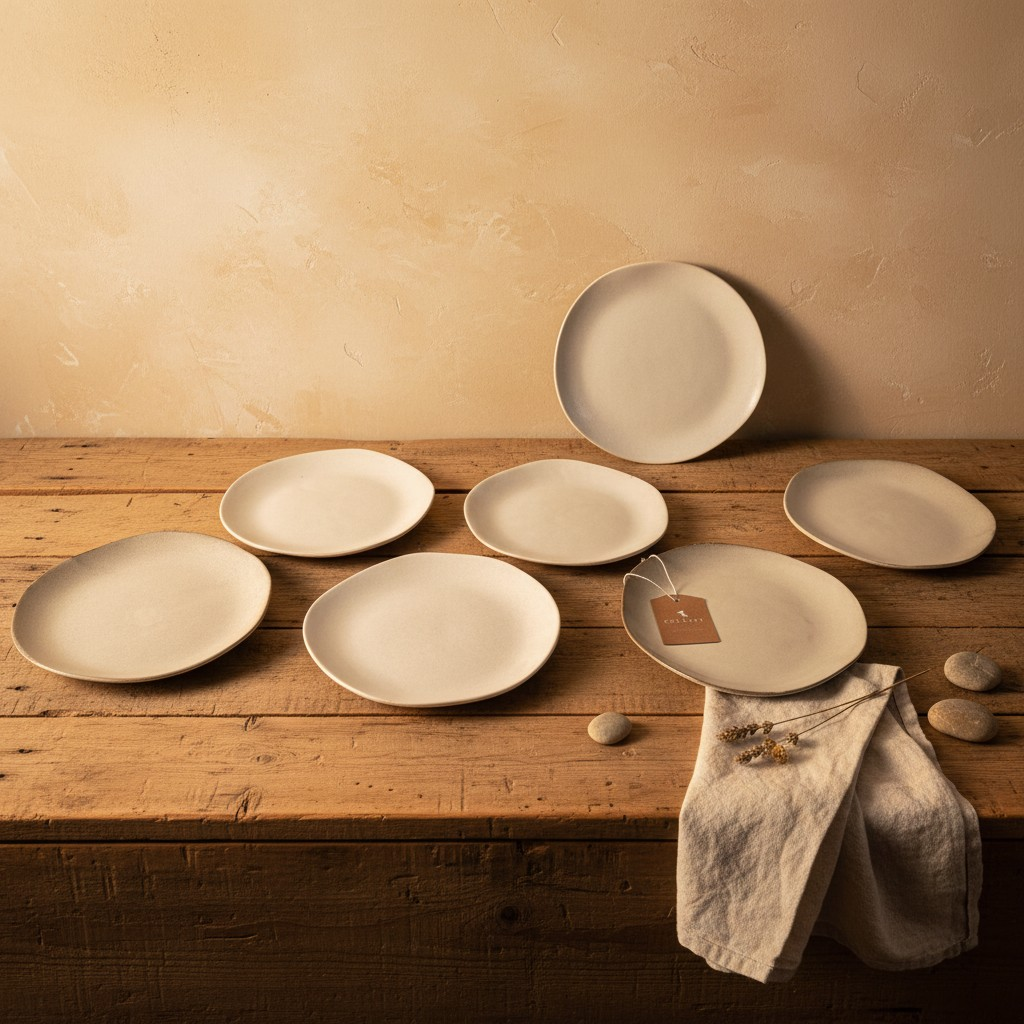
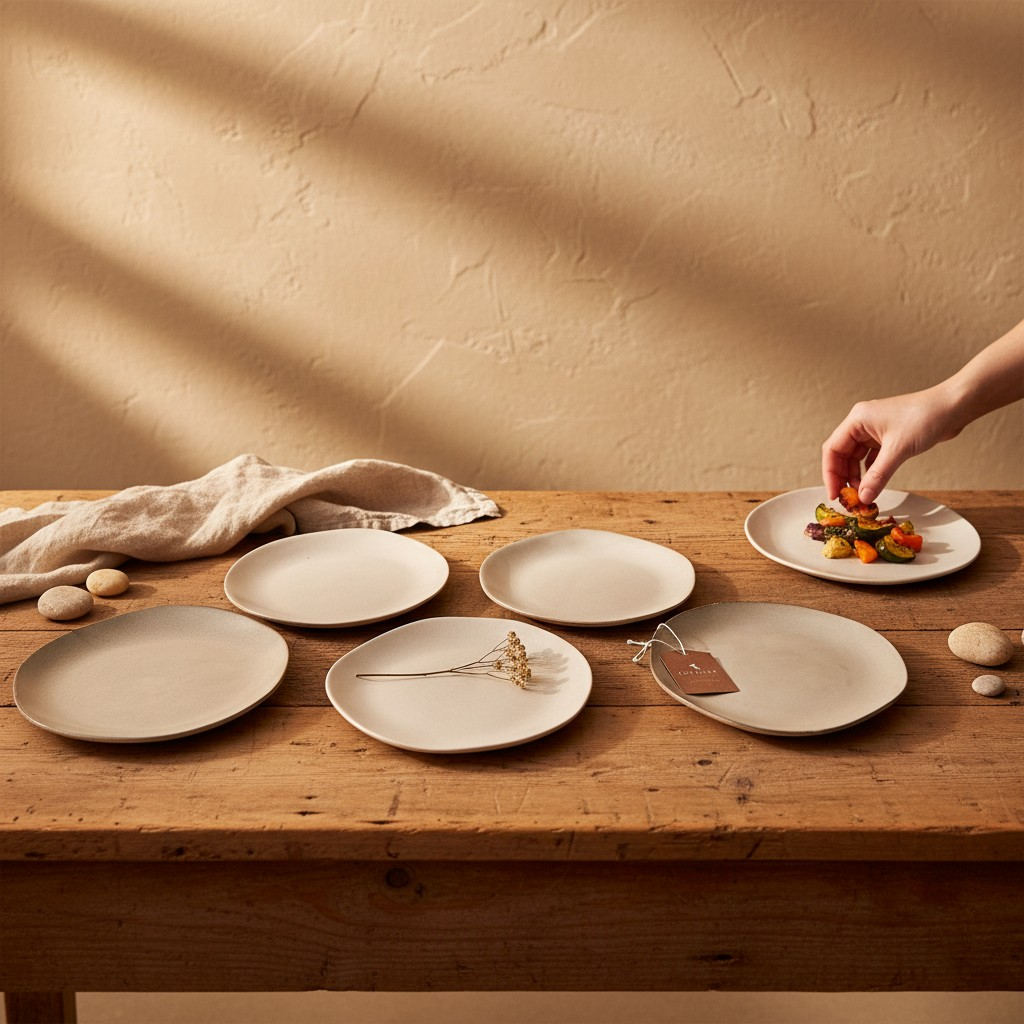
plato-postre-sorrento: x4/x6, elimina foto 1, nueva foto al final, heroes: x6=foto6 x4=foto4, precios correctos

diff --git a/index.html b/index.html
@@ -2075,7 +2075,8 @@ src="https://www.facebook.com/tr?id=1479825037203290&ev=PageView&noscript=1"/></
   <div class="product" id="mug-portofino-410"><img loading="lazy" class="main-photo" src="FOTOS/mishka/mug-portofino-410/1.jpg" alt="Mug Portofino 410ml"><div class="thumbnails"><img loading="lazy" src="FOTOS/mishka/mug-portofino-410/1.jpg" class="active" onmouseover="changeMain(this)"><img loading="lazy" src="FOTOS/mishka/mug-portofino-410/2.jpg" onmouseover="changeMain(this)"><img loading="lazy" src="FOTOS/mishka/mug-portofino-410/3.jpg" onmouseover="changeMain(this)"><img loading="lazy" src="FOTOS/mishka/mug-portofino-410/4.jpg" onmouseover="changeMain(this)"><img loading="lazy" src="FOTOS/mishka/mug-portofino-410/5.jpg" onmouseover="changeMain(this)"><img loading="lazy" src="FOTOS/mishka/mug-portofino-410/6.jpg" onmouseover="changeMain(this)"><img loading="lazy" src="FOTOS/mishka/mug-portofino-410/7.jpg" onmouseover="changeMain(this)"><img loading="lazy" src="FOTOS/mishka/mug-portofino-410/8.jpg" onmouseover="changeMain(this)"><img loading="lazy" src="FOTOS/mishka/mug-portofino-410/9.jpg" onmouseover="changeMain(this)"><img loading="lazy" src="FOTOS/mishka/mug-portofino-410/10.jpg" onmouseover="changeMain(this)"><img loading="lazy" src="FOTOS/mishka/mug-portofino-410/11.jpg" onmouseover="changeMain(this)"></div><div class="product-info"><div class="product-name">Set x6 Mug Portofino 410 ml</div><div class="product-desc">Cerámica · Color verde agua castaño · Línea Portofino · Capacidad generosa para café o infusiones · 410 ml · Set de 6</div><div class="product-price">$65.999</div><span class="product-tag">Mesa & Cocina</span></div></div>
   <div class="product" id="plato-playo-sorrento"><img loading="lazy" class="main-photo" src="FOTOS/mishka/plato-playo-sorrento/3.jpg" alt="Set x6 Plato Playo Sorrento 27.5cm"><div class="thumbnails"><img loading="lazy" src="FOTOS/mishka/plato-playo-sorrento/3.jpg" class="active" onmouseover="changeMain(this)"><img loading="lazy" src="FOTOS/mishka/plato-playo-sorrento/1.jpg" onmouseover="changeMain(this)"><img loading="lazy" src="FOTOS/mishka/plato-playo-sorrento/2.jpg" onmouseover="changeMain(this)"><img loading="lazy" src="FOTOS/mishka/plato-playo-sorrento/4.jpg" onmouseover="changeMain(this)"><img loading="lazy" src="FOTOS/mishka/plato-playo-sorrento/5.jpg" onmouseover="changeMain(this)"><img loading="lazy" src="FOTOS/mishka/plato-playo-sorrento/6.jpg" onmouseover="changeMain(this)"></div><div class="product-info"><div class="product-name">Set x6 Plato Playo Sorrento 27,5 cm</div><div class="product-desc">Porcelana · Línea Sorrento · Diseño artesanal con textura y carácter · 27,5 cm · Set de 6</div><div class="product-price">$25.499</div><span class="product-tag">Mesa & Cocina</span></div></div>
   <div class="product" id="plato-playo-sorrento-x4"><img loading="lazy" class="main-photo" src="FOTOS/mishka/plato-playo-sorrento/2.jpg" alt="Set x4 Plato Playo Sorrento 27.5cm"><div class="thumbnails"><img loading="lazy" src="FOTOS/mishka/plato-playo-sorrento/2.jpg" class="active" onmouseover="changeMain(this)"><img loading="lazy" src="FOTOS/mishka/plato-playo-sorrento/1.jpg" onmouseover="changeMain(this)"><img loading="lazy" src="FOTOS/mishka/plato-playo-sorrento/3.jpg" onmouseover="changeMain(this)"><img loading="lazy" src="FOTOS/mishka/plato-playo-sorrento/4.jpg" onmouseover="changeMain(this)"><img loading="lazy" src="FOTOS/mishka/plato-playo-sorrento/5.jpg" onmouseover="changeMain(this)"><img loading="lazy" src="FOTOS/mishka/plato-playo-sorrento/6.jpg" onmouseover="changeMain(this)"></div><div class="product-info"><div class="product-name">Set x4 Plato Playo Sorrento 27,5 cm</div><div class="product-desc">Porcelana · Línea Sorrento · Diseño artesanal con textura y carácter · 27,5 cm · Set de 4</div><div class="product-price">$17.499</div><span class="product-tag">Mesa & Cocina</span></div></div>
-  <div class="product" id="plato-postre-sorrento"><img loading="lazy" class="main-photo" src="FOTOS/mishka/plato-postre-sorrento/1.jpg" alt="Plato Postre Sorrento 22cm"><div class="thumbnails"><img loading="lazy" src="FOTOS/mishka/plato-postre-sorrento/1.jpg" class="active" onmouseover="changeMain(this)"><img loading="lazy" src="FOTOS/mishka/plato-postre-sorrento/2.jpg" onmouseover="changeMain(this)"><img loading="lazy" src="FOTOS/mishka/plato-postre-sorrento/3.jpg" onmouseover="changeMain(this)"><img loading="lazy" src="FOTOS/mishka/plato-postre-sorrento/4.jpg" onmouseover="changeMain(this)"><img loading="lazy" src="FOTOS/mishka/plato-postre-sorrento/5.jpg" onmouseover="changeMain(this)"><img loading="lazy" src="FOTOS/mishka/plato-postre-sorrento/6.jpg" onmouseover="changeMain(this)"><img loading="lazy" src="FOTOS/mishka/plato-postre-sorrento/7.jpg" onmouseover="changeMain(this)"><img loading="lazy" src="FOTOS/mishka/plato-postre-sorrento/8.jpg" onmouseover="changeMain(this)"></div><div class="product-info"><div class="product-name">Plato Postre Sorrento 22 cm</div><div class="product-desc">Porcelana · Línea Sorrento · Elegancia artesanal en cada detalle · 22 cm</div><div class="product-price">$17.999</div><span class="product-tag">Mesa & Cocina</span></div></div>
+  <div class="product" id="plato-postre-sorrento"><img loading="lazy" class="main-photo" src="FOTOS/mishka/plato-postre-sorrento/6.jpg" alt="Set x6 Plato Postre Sorrento 22cm"><div class="thumbnails"><img loading="lazy" src="FOTOS/mishka/plato-postre-sorrento/6.jpg" class="active" onmouseover="changeMain(this)"><img loading="lazy" src="FOTOS/mishka/plato-postre-sorrento/1.jpg" onmouseover="changeMain(this)"><img loading="lazy" src="FOTOS/mishka/plato-postre-sorrento/2.jpg" onmouseover="changeMain(this)"><img loading="lazy" src="FOTOS/mishka/plato-postre-sorrento/3.jpg" onmouseover="changeMain(this)"><img loading="lazy" src="FOTOS/mishka/plato-postre-sorrento/4.jpg" onmouseover="changeMain(this)"><img loading="lazy" src="FOTOS/mishka/plato-postre-sorrento/5.jpg" onmouseover="changeMain(this)"><img loading="lazy" src="FOTOS/mishka/plato-postre-sorrento/7.jpg" onmouseover="changeMain(this)"><img loading="lazy" src="FOTOS/mishka/plato-postre-sorrento/8.jpg" onmouseover="changeMain(this)"></div><div class="product-info"><div class="product-name">Set x6 Plato Postre Sorrento 22 cm</div><div class="product-desc">Porcelana · Línea Sorrento · Elegancia artesanal en cada detalle · 22 cm · Set de 6</div><div class="product-price">$108.899</div><span class="product-tag">Mesa & Cocina</span></div></div>
+  <div class="product" id="plato-postre-sorrento-x4"><img loading="lazy" class="main-photo" src="FOTOS/mishka/plato-postre-sorrento/4.jpg" alt="Set x4 Plato Postre Sorrento 22cm"><div class="thumbnails"><img loading="lazy" src="FOTOS/mishka/plato-postre-sorrento/4.jpg" class="active" onmouseover="changeMain(this)"><img loading="lazy" src="FOTOS/mishka/plato-postre-sorrento/1.jpg" onmouseover="changeMain(this)"><img loading="lazy" src="FOTOS/mishka/plato-postre-sorrento/2.jpg" onmouseover="changeMain(this)"><img loading="lazy" src="FOTOS/mishka/plato-postre-sorrento/3.jpg" onmouseover="changeMain(this)"><img loading="lazy" src="FOTOS/mishka/plato-postre-sorrento/5.jpg" onmouseover="changeMain(this)"><img loading="lazy" src="FOTOS/mishka/plato-postre-sorrento/6.jpg" onmouseover="changeMain(this)"><img loading="lazy" src="FOTOS/mishka/plato-postre-sorrento/7.jpg" onmouseover="changeMain(this)"><img loading="lazy" src="FOTOS/mishka/plato-postre-sorrento/8.jpg" onmouseover="changeMain(this)"></div><div class="product-info"><div class="product-name">Set x4 Plato Postre Sorrento 22 cm</div><div class="product-desc">Porcelana · Línea Sorrento · Elegancia artesanal en cada detalle · 22 cm · Set de 4</div><div class="product-price">$72.599</div><span class="product-tag">Mesa & Cocina</span></div></div>
   <div class="product" id="bowl-sorrento"><img loading="lazy" class="main-photo" src="FOTOS/mishka/bowl-sorrento/1.jpg" alt="Bowl Sorrento 680ml"><div class="thumbnails"><img loading="lazy" src="FOTOS/mishka/bowl-sorrento/1.jpg" class="active" onmouseover="changeMain(this)"><img loading="lazy" src="FOTOS/mishka/bowl-sorrento/2.jpg" onmouseover="changeMain(this)"><img loading="lazy" src="FOTOS/mishka/bowl-sorrento/3.jpg" onmouseover="changeMain(this)"><img loading="lazy" src="FOTOS/mishka/bowl-sorrento/4.jpg" onmouseover="changeMain(this)"><img loading="lazy" src="FOTOS/mishka/bowl-sorrento/5.jpg" onmouseover="changeMain(this)"><img loading="lazy" src="FOTOS/mishka/bowl-sorrento/6.jpg" onmouseover="changeMain(this)"><img loading="lazy" src="FOTOS/mishka/bowl-sorrento/7.jpg" onmouseover="changeMain(this)"><img loading="lazy" src="FOTOS/mishka/bowl-sorrento/8.jpg" onmouseover="changeMain(this)"></div><div class="product-info"><div class="product-name">Bowl Sorrento 680 ml</div><div class="product-desc">Porcelana · Línea Sorrento · Amplio y elegante para pastas, ensaladas o sopas · 680 ml</div><div class="product-price">$17.999</div><span class="product-tag">Mesa & Cocina</span></div></div>
   <div class="product" id="azucarera-sorrento"><img loading="lazy" class="main-photo" src="FOTOS/mishka/azucarera-sorrento/1.jpg" alt="Azucarera Sorrento"><div class="thumbnails"><img loading="lazy" src="FOTOS/mishka/azucarera-sorrento/1.jpg" class="active" onmouseover="changeMain(this)"><img loading="lazy" src="FOTOS/mishka/azucarera-sorrento/2.jpg" onmouseover="changeMain(this)"><img loading="lazy" src="FOTOS/mishka/azucarera-sorrento/3.jpg" onmouseover="changeMain(this)"><img loading="lazy" src="FOTOS/mishka/azucarera-sorrento/4.jpg" onmouseover="changeMain(this)"><img loading="lazy" src="FOTOS/mishka/azucarera-sorrento/5.jpg" onmouseover="changeMain(this)"><img loading="lazy" src="FOTOS/mishka/azucarera-sorrento/6.jpg" onmouseover="changeMain(this)"><img loading="lazy" src="FOTOS/mishka/azucarera-sorrento/7.jpg" onmouseover="changeMain(this)"></div><div class="product-info"><div class="product-name">Azucarera Sorrento 10,5×11 cm</div><div class="product-desc">Porcelana · Línea Sorrento · Detalle que completa cualquier mesa · 10,5×11 cm</div><div class="product-price">$16.999</div><span class="product-tag">Mesa & Cocina</span></div></div>
   <div class="product" id="lechera-sorrento"><img loading="lazy" class="main-photo" src="FOTOS/mishka/lechera-sorrento/1.jpg" alt="Lechera Sorrento 280ml"><div class="thumbnails"><img loading="lazy" src="FOTOS/mishka/lechera-sorrento/1.jpg" class="active" onmouseover="changeMain(this)"><img loading="lazy" src="FOTOS/mishka/lechera-sorrento/2.jpg" onmouseover="changeMain(this)"><img loading="lazy" src="FOTOS/mishka/lechera-sorrento/3.jpg" onmouseover="changeMain(this)"><img loading="lazy" src="FOTOS/mishka/lechera-sorrento/4.jpg" onmouseover="changeMain(this)"><img loading="lazy" src="FOTOS/mishka/lechera-sorrento/5.jpg" onmouseover="changeMain(this)"><img loading="lazy" src="FOTOS/mishka/lechera-sorrento/6.jpg" onmouseover="changeMain(this)"><img loading="lazy" src="FOTOS/mishka/lechera-sorrento/7.jpg" onmouseover="changeMain(this)"><img loading="lazy" src="FOTOS/mishka/lechera-sorrento/8.jpg" onmouseover="changeMain(this)"><img loading="lazy" src="FOTOS/mishka/lechera-sorrento/9.jpg" onmouseover="changeMain(this)"><img loading="lazy" src="FOTOS/mishka/lechera-sorrento/10.jpg" onmouseover="changeMain(this)"></div><div class="product-info"><div class="product-name">Lechera Sorrento 280 ml</div><div class="product-desc">Porcelana · Línea Sorrento · Pequeño detalle de gran impacto en la mesa · 280 ml</div><div class="product-price">$15.499</div><span class="product-tag">Mesa & Cocina</span></div></div>
